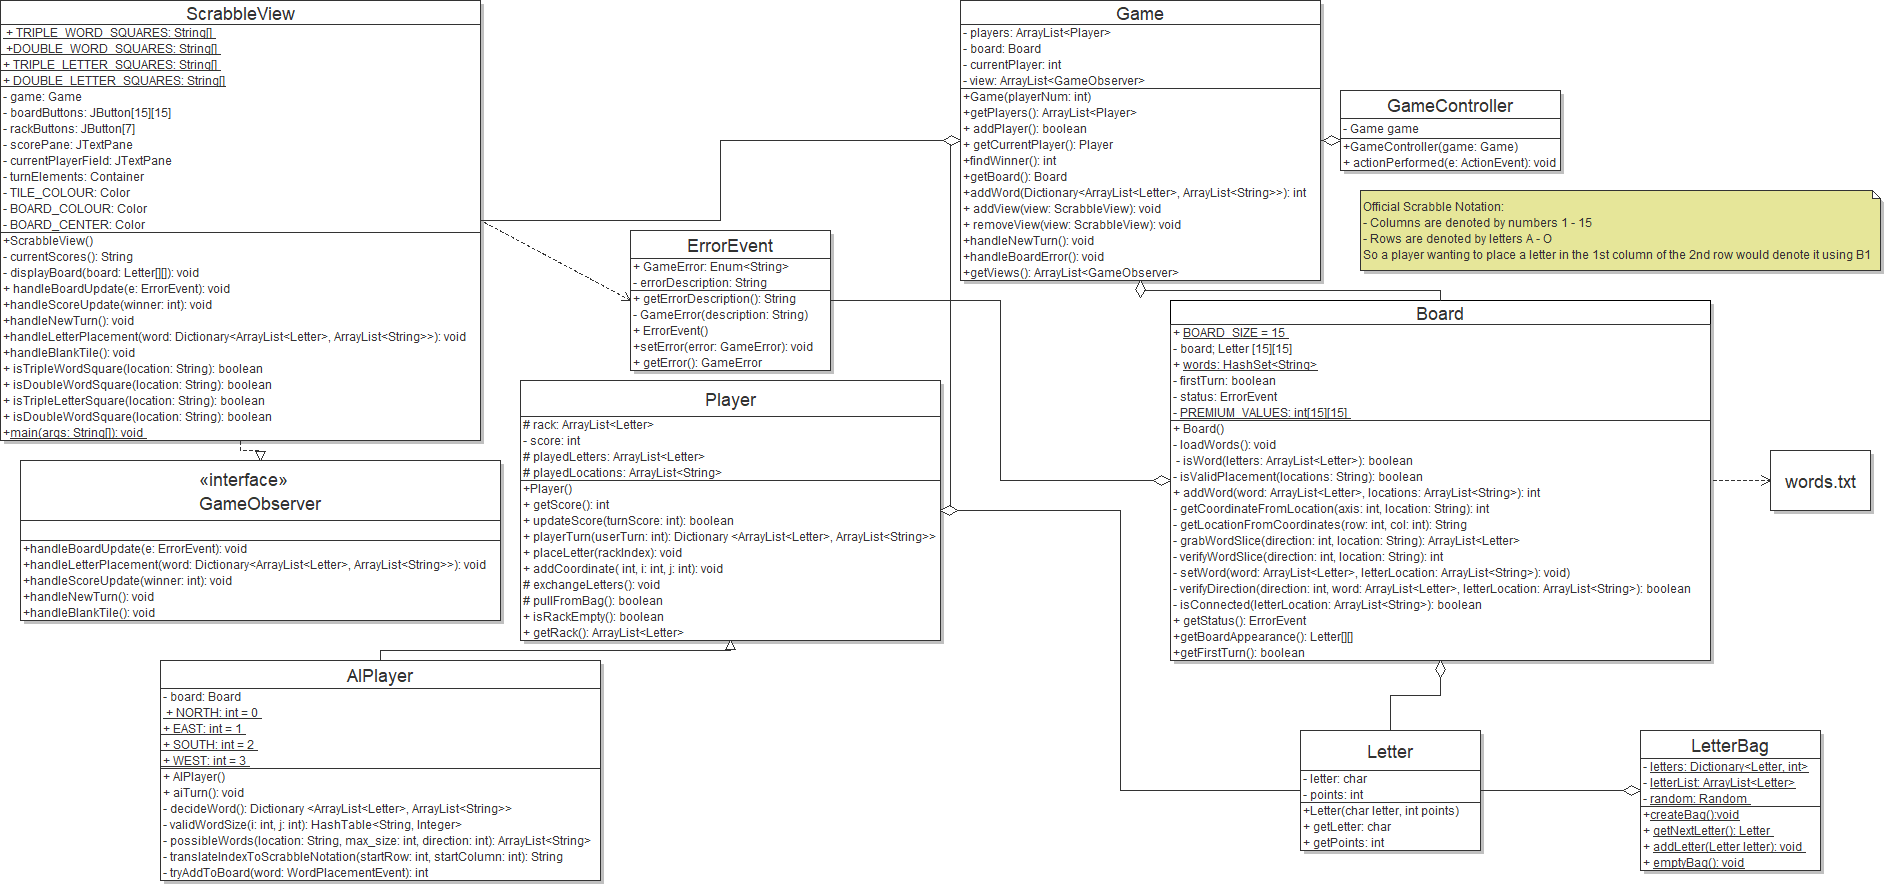
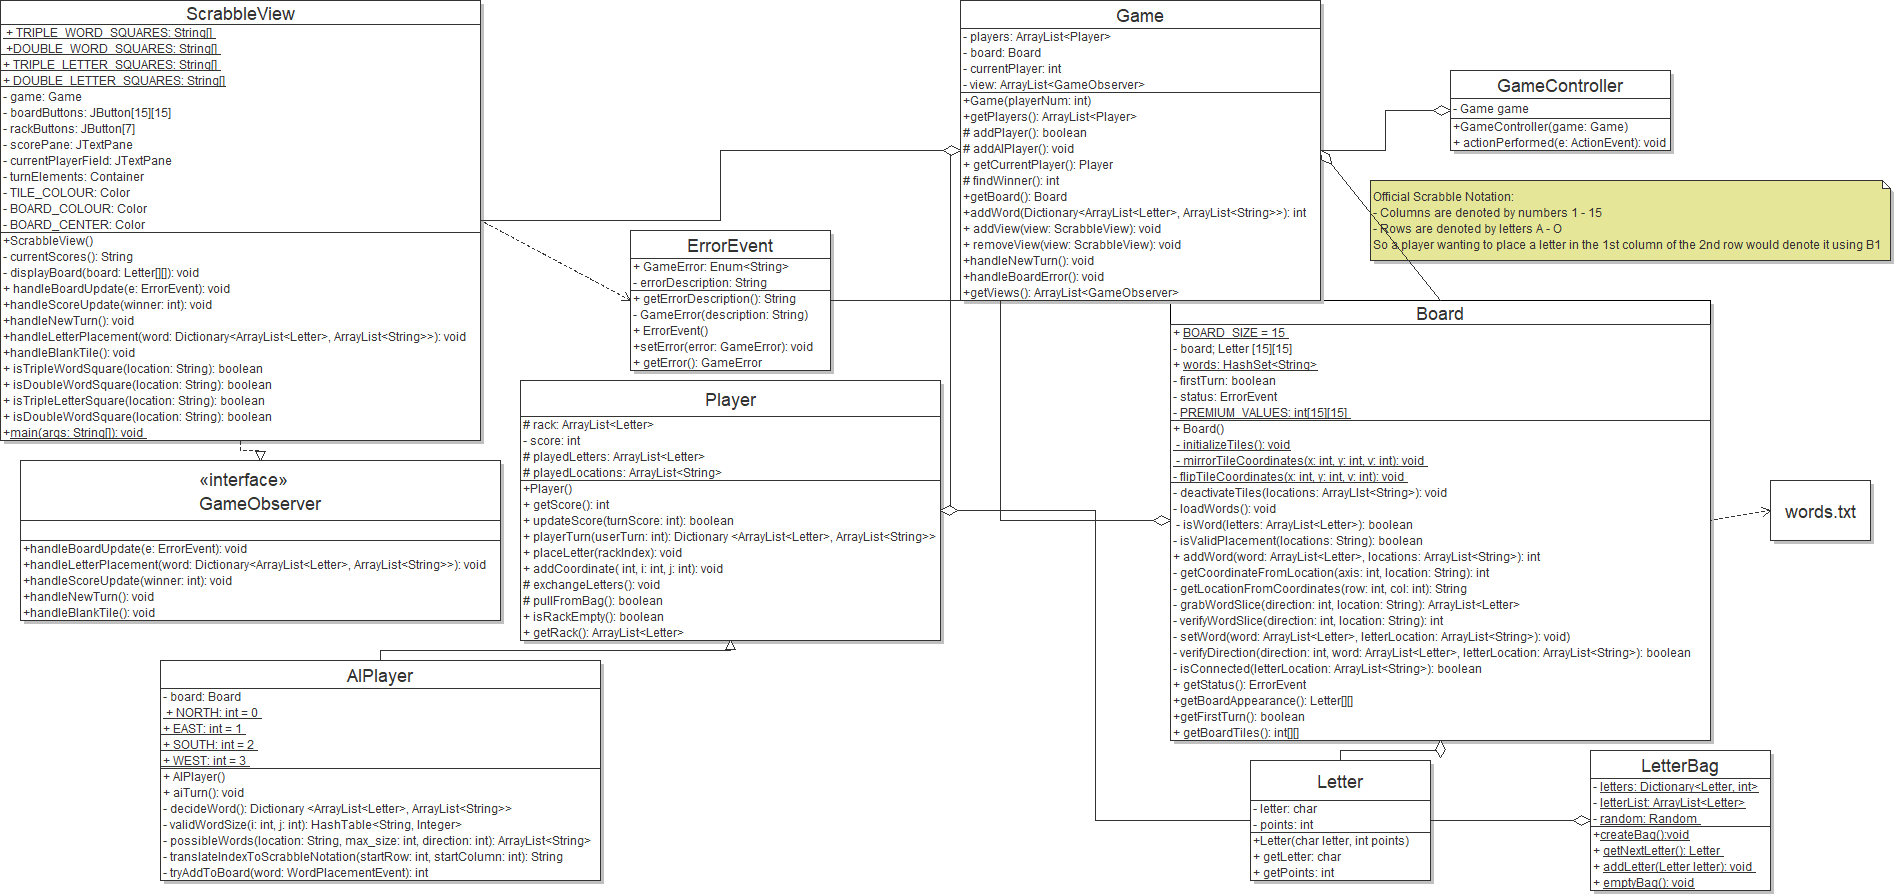
Create serializable feature menu bar with save and load menu items

Changed region(s): [[0.4, 0.0, 1.0, 1.0], [0.0, 0.0, 0.5846, 1.0], [0.5846, 0.0, 0.6154, 0.0305]]

diff --git a/ScrabbleView.java b/ScrabbleView.java
@@ -23,8 +23,9 @@ public class ScrabbleView extends JFrame implements GameObserver {
     private final Color TRIPLE_LETTER_COLOUR = new Color(63, 146, 199);
     private final Color DOUBLE_LETTER_COLOUR = new Color(117, 216, 230);
     private JTextPane currentPlayerField;
-
-
+    private JMenuBar menuBar;
+    private JMenuItem saveItem;
+    private JMenuItem loadItem;
     /**
      * The basic constructor for the ScrabbleView class
      */
@@ -68,6 +69,20 @@ public class ScrabbleView extends JFrame implements GameObserver {
         this.setSize(800,800);
         this.setLayout(new BorderLayout());
         this.setDefaultCloseOperation(EXIT_ON_CLOSE);
+        GameController gameController = new GameController(game);
+
+        //Create menubar for serialization features
+        menuBar = new JMenuBar();
+        JMenu menu = new JMenu("Game Options");
+        saveItem = new JMenuItem("Save game as serializable");
+        saveItem.setActionCommand("serial,save");
+        saveItem.addActionListener(gameController);
+        loadItem = new JMenuItem("Load game from serializable");
+        saveItem.setActionCommand("serial,load");
+        loadItem.addActionListener(gameController);
+        menu.add(saveItem);
+        menu.add(loadItem);
+        menuBar.add(menu);
 
         //Create GUI elements in frame
         turnElements = new Container(); //holds the current player's rack and the turn buttons
@@ -77,9 +92,6 @@ public class ScrabbleView extends JFrame implements GameObserver {
         JTextPane currentPlayerPane = new JTextPane();
         JPanel PlayerPanel = new JPanel();
         rackButtons = new JButton[7];
-
-        //Create controller
-        GameController gameController = new GameController(game);
 
         //create board buttons
         char rowChar = 'a';
@@ -159,6 +171,8 @@ public class ScrabbleView extends JFrame implements GameObserver {
         this.add(boardPanel, BorderLayout.CENTER);
 
         this.add(scorePane, BorderLayout.EAST);
+
+        this.add(menuBar, BorderLayout.NORTH);
 
         this.setVisible(true);
     } //end constructor
